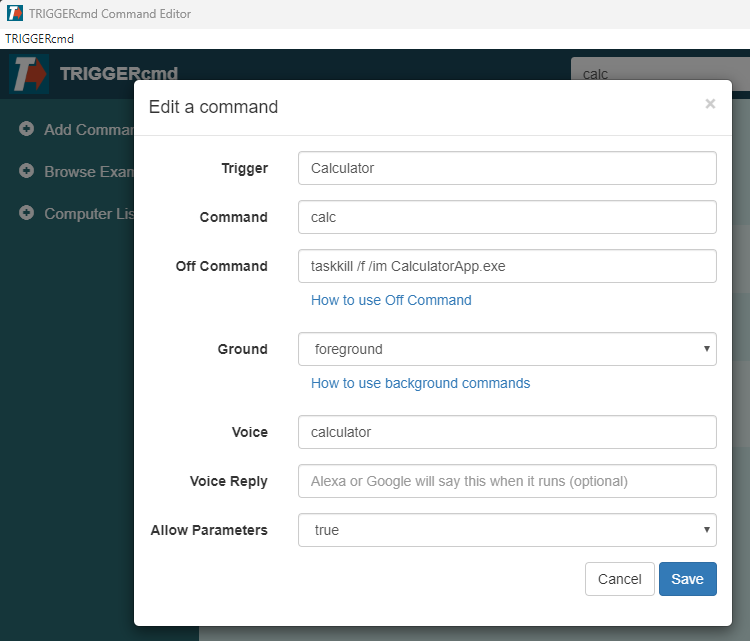
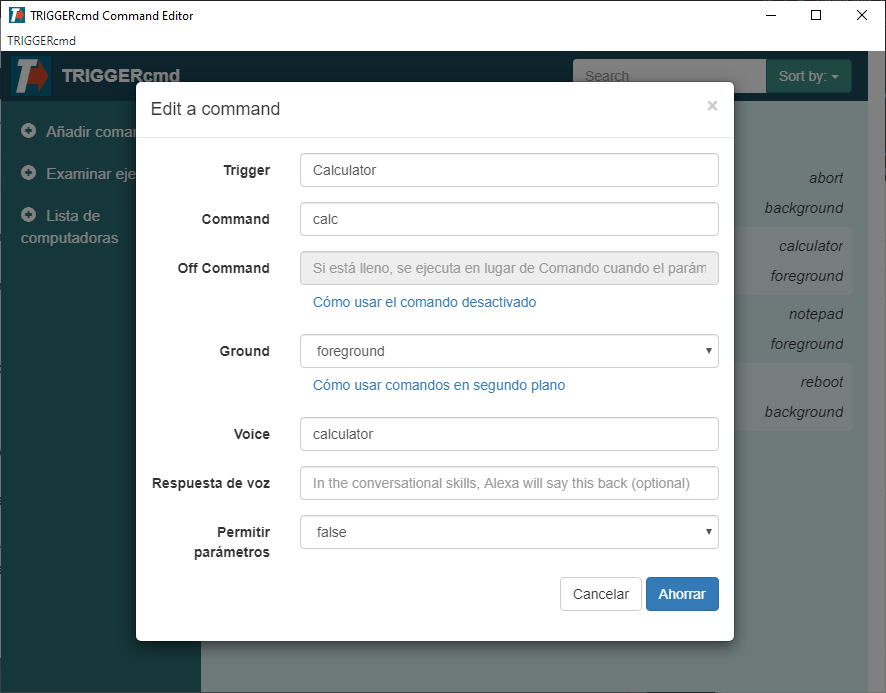
Finished spanish translation.

diff --git a/es/SmartHomeSwitches.md b/es/SmartHomeSwitches.md
@@ -8,30 +8,30 @@
 
 ## Cambiar creación y denominación
 
-Both commands and computers have a **voice** field that determines what your virtual switches will be named.  If those voice fields are empty, a virtual switch may not be created.  
+Tanto los comandos como las computadoras tienen un campo de **voz** que determina el nombre de sus conmutadores virtuales. Si esos campos de voz están vacíos, es posible que no se cree un conmutador virtual.
 
-For a virtual switch to be created, each of your commands must have a value in the **voice** field (like "calculator") because the command's **voice** field value is used in the name of the virtual switch.  
+Para que se cree un conmutador virtual, cada uno de sus comandos debe tener un valor en el campo **voz** (como "calculadora") porque el valor del campo **voz** del comando se utiliza en el nombre del conmutador virtual.
 
-For a virtual switch to be created, each of your computers must also have a value in the **voice** field (like "laptop") because the computer's **voice** field value is used in the name of the virtual switch (example: **calculator on laptop**).  
+Para que se cree un conmutador virtual, cada una de sus computadoras también debe tener un valor en el campo **voz** (como "laptop") porque el valor del campo **voz** de la computadora se usa en el nombre del conmutador virtual. (ejemplo: **calculadora en computadora portátil**).
 
-The exception is your default computer.  Your default computer's voice field can be empty because it is not used in the names of your virtual switches.  Instead, just the command voice field values are used (example: **calculator**).
+La excepción es su computadora predeterminada. El campo de voz predeterminado de su computadora puede estar vacío porque no se usa en los nombres de sus conmutadores virtuales. En su lugar, solo se utilizan los valores del campo de voz del comando (ejemplo: **calculadora**).
 
-The first computer in your account is your default computer by default, but if you have multiple computers, you can change your default computer.  
+La primera computadora en su cuenta es su computadora predeterminada, pero si tiene varias computadoras, puede cambiar su computadora predeterminada.
 
-Virtual switches for your default computer are:
+Los conmutadores virtuales para su computadora predeterminada son:
 
-1. Named with the command's voice field only (ie: calculator).
-1. Created whether computer's voice field is empty or not.
+1. Nombrado únicamente con el campo de voz del comando (es decir, calculadora).
+1. Creado independientemente de que el campo de voz de la computadora esté vacío o no.
 
-Virtual switches for your non-default computers are:
+Los conmutadores virtuales para sus computadoras no predeterminadas son:
 
-1. Named with both the command and computer's voice field (ie: calculator on laptop).
-1. Will be created even if your default computer's voice field in empty.
+1. Nombrado con el comando y el campo de voz de la computadora (es decir, calculadora en la computadora portátil).
+1. Se creará incluso si el campo de voz predeterminado de su computadora está vacío.
 
-# Flipping virtual switches on and off
+# Activar y desactivar interruptores virtuales
 
-If your command has "Allow Parameters" set to true and the "Off Command" field is empty, when you flip the command's virtual switch on or off, it will run your command with **on** or **off** as a command parameter.  
+Si su comando tiene "Permitir parámetros" establecido en verdadero y el campo "Comando apagado" está vacío, cuando encienda o apague el interruptor virtual del comando, ejecutará su comando con **on** o **off** como un parámetro de comando.
 
-Or, if you put a command in the "Off Command" field, it will run when you flip the switch off.    
+O, si coloca un comando en el campo "Comando de apagado", se ejecutará cuando apague el interruptor.
 
-If "Allow Parameters" set to false, the command in the "Command" field runs whether you flip the switch on or off.
+Si "Permitir parámetros" se establece en falso, el comando en el campo "Comando" se ejecuta ya sea que encienda o apague el interruptor.

diff --git a/es/tcmdCLI.md b/es/tcmdCLI.md
@@ -1,21 +1,21 @@
-# Command Line Interface tool
+# Command Line Interface toolHerramienta de interfaz de línea de comando
 
-## Download tcmd
+## Descargar tcmd
 
-* [Windows 64bit (most common)](https://triggercmdagents.s3.amazonaws.com/tcmd_cli/tcmd-windows-amd64.exe)
-* [Windows 32bit](https://triggercmdagents.s3.amazonaws.com/tcmd_cli/tcmd-windows-386.exe)
-* [Mac 64bit](https://triggercmdagents.s3.amazonaws.com/tcmd_cli/tcmd-darwin-amd64)
-* [Linux 32bit](https://triggercmdagents.s3.amazonaws.com/tcmd_cli/tcmd-linux-386)
-* [Linux 64bit](https://triggercmdagents.s3.amazonaws.com/tcmd_cli/tcmd-linux-amd64)
-* [Linux arm (ie: Raspberry Pi or Orange Pi)](https://triggercmdagents.s3.amazonaws.com/tcmd_cli/tcmd-linux-arm)
+* [Windows de 64 bits (el más común)](https://triggercmdagents.s3.amazonaws.com/tcmd_cli/tcmd-windows-amd64.exe)
+* [Windows de 32 bit](https://triggercmdagents.s3.amazonaws.com/tcmd_cli/tcmd-windows-386.exe)
+* [Mac de 64 bit](https://triggercmdagents.s3.amazonaws.com/tcmd_cli/tcmd-darwin-amd64)
+* [Linux de 32 bit](https://triggercmdagents.s3.amazonaws.com/tcmd_cli/tcmd-linux-386)
+* [Linux de 64 bit](https://triggercmdagents.s3.amazonaws.com/tcmd_cli/tcmd-linux-amd64)
+* [Linux arm (ie: Raspberry Pi o Orange Pi)](https://triggercmdagents.s3.amazonaws.com/tcmd_cli/tcmd-linux-arm)
 
-After you download it, rename it to tcmd, or tcmd.exe on Windows.  
+Después de descargarlo, cámbiele el nombre a tcmd o tcmd.exe en Windows.
 
-Move it to **/usr/local/bin** or **C:\Windows**, or some other folder listed in your PATH environment variable if you want to be able to run it from any folder.  
+Muévalo a **/usr/local/bin** o **C:\Windows**, o alguna otra carpeta listada en su variable de entorno PATH si desea poder ejecutarlo desde cualquier carpeta.
 
-## tcmd usage
+## Uso de tcmd
 
-Run this command to get help text:
+Ejecute este comando para obtener texto de ayuda:
 ```
 tcmd -h
 ```
@@ -27,22 +27,22 @@ NAME:
     tcmd [options]
 
   OPTIONS:
-    --trigger value, -t value   Trigger name of the command you want to run
-    --computer value, -c value  Name of the computer (leave blank for your default computer)
-    --params value, -p value    Any parameters you want to add to the remote command
-    --panel value, -P value     Name of the panel you want to use
-    --button value, -b value    Name of the panel button to "press"
-    --list, -l                  List your commands
-    --listpanels, -L            List your panels
-    --pair                      Login using a pair code
-    --help, -h                  show help
-    --version, -v               print the version
+    --trigger value, -t value   Nombre del activador del comando que desea ejecutar
+    --computer value, -c value  Nombre de la computadora (déjelo en blanco para su computadora predeterminada)
+    --params value, -p value    Cualquier parámetro que desee agregar al comando remoto
+    --panel value, -P value     Nombre del panel que desea utilizar
+    --button value, -b value    Nombre del botón del panel a "presionar"
+    --list, -l                  Enumere sus comandos
+    --listpanels, -L            Lista tus paneles
+    --pair                      Inicie sesión usando un código de par
+    --help, -h                  mostrar ayuda
+    --version, -v               imprimir la versión
 ```
 
-## Source code
+## Código fuente
 
-You can view the Go source code for the tcmd tool on Github [here](https://github.com/rvmey/triggercmdGOclient).  
+Puede ver el código fuente de Go para la herramienta tcmd en Github [aquí](https://github.com/rvmey/triggercmdGOclient).  
 
-## Youtube video
+## Video de Youtube
 
-To see the **tcmd** tool in action, check out [this Youtube video](https://www.youtube.com/watch?v=q0Uu4SNFKFY).  
+Para ver la herramienta **tcmd** en acción, mira [este vídeo de Youtube](https://www.youtube.com/watch?v=q0Uu4SNFKFY).  

diff --git a/es/TriggerCommands.md b/es/TriggerCommands.md
@@ -1,10 +1,10 @@
-# Trigger Commands
+# Comandos de trigger
 
-There are many ways to trigger your commands, including Alexa, Google Home, SmartThings, IFTTT, and Zapier.  
+Hay muchas formas de activar tus comandos, incluidas Alexa, Google Home, SmartThings, IFTTT y Zapier.
 
-See [this page](https://www.triggercmd.com/forum/topic/30/list-of-ways-to-trigger-your-commands) on the TRIGGERcmd forum for a list of methods.
+Ver [esta página](https://www.triggercmd.com/forum/topic/30/list-of-ways-to-trigger-your-commands) en el foro TRIGGERcmd para obtener una lista de métodos.
 
-If you want to use your voice, start with these:
+Si quieres usar tu voz, comienza con estos:
 
-* [TRIGGERcmd Smart Home Alexa skill](./es/SmartHomeAlexa.md)
-* [TRIGGERcmd Smart Home Google Assistant action](./es/SmartHomeGoogle.md)
+* [Skill TRIGGERcmd Smart Home Alexa](./es/SmartHomeAlexa.md)
+* [Action del Asistente de Google TRIGGERcmd Smart Home](./es/SmartHomeGoogle.md)

diff --git a/es/SmartThings.md b/es/SmartThings.md
@@ -1,7 +1,7 @@
 # SmartThings
 
-If you use SmartThings with Alexa or Google Assistant, you should link TRIGGERcmd with SmartThings to create your virtual switches in Alexa or Google Assistant.  
+Si usa SmartThings con Alexa o el Asistente de Google, debe vincular TRIGGERcmd con SmartThings para crear sus interruptores virtuales en Alexa o el Asistente de Google.
 
-If you also link TRIGGERcmd with Alexa or Google Assistant directly, you'll get duplicate smart switches.  
+Si también vincula TRIGGERcmd con Alexa o el Asistente de Google directamente, obtendrá interruptores inteligentes duplicados.
 
-To link TRIGGERcmd with SmartThings using these [setup instructions](https://www.triggercmd.com/forum/topic/2494/new-smartthings-integration-2023).  
+Para vincular TRIGGERcmd con SmartThings usando estas [instrucciones de configuración](https://www.triggercmd.com/forum/topic/2494/new-smartthings-integration-2023).  

diff --git a/es/MSPowerAutomate.md b/es/MSPowerAutomate.md
@@ -4,10 +4,10 @@
 
 * Cuando cree un flujo, haga clic en Nuevo paso y seleccione **[CONECTOR TRIGGERcmd](https://powerautomate.microsoft.com/en-US/connectors/details/shared_triggercmd/triggercmd/)**
 
-* Complete estos campos bajo Run command:
-  * Command - Trigger name
-  * Computer - Computer name
-  * Parameters - Optionally include text from the previous flow step in command parameters
+* Completa estos campos bajo Run command:
+  * Comando: nombre del trigger
+  * Computadora - Nombre de la computadora
+  * Parámetros: opcionalmente, incluya texto del paso de flujo anterior en los parámetros del comando
 
 ![TRIGGERcmd.com](./images/ms-power-automate.png)
 

diff --git a/es/Pipedream.md b/es/Pipedream.md
@@ -8,9 +8,9 @@ Haga clic [aquí](https://pipedream.com/apps/triggercmd) para conectar su cuenta
 
 ![TRIGGERcmd en Pipedream](./images/pipe-dream-step.png)
 
-Fill these field in your **trigger_command** step:
-* Command - Trigger name
-* Computer - Computer name
-* Parameters - Optionally include text from the previous workflow step in command parameters
+Complete estos campos en su paso **trigger_command**
+* Comando: nombre del trigger
+* Computadora - Nombre de la computadora
+* Parámetros - opcionalmente, incluya texto del paso anterior del flujo de trabajo en los parámetros del comando
 
 ![TRIGGERcmd en Pipedream](./images/pipe-dream.png)
